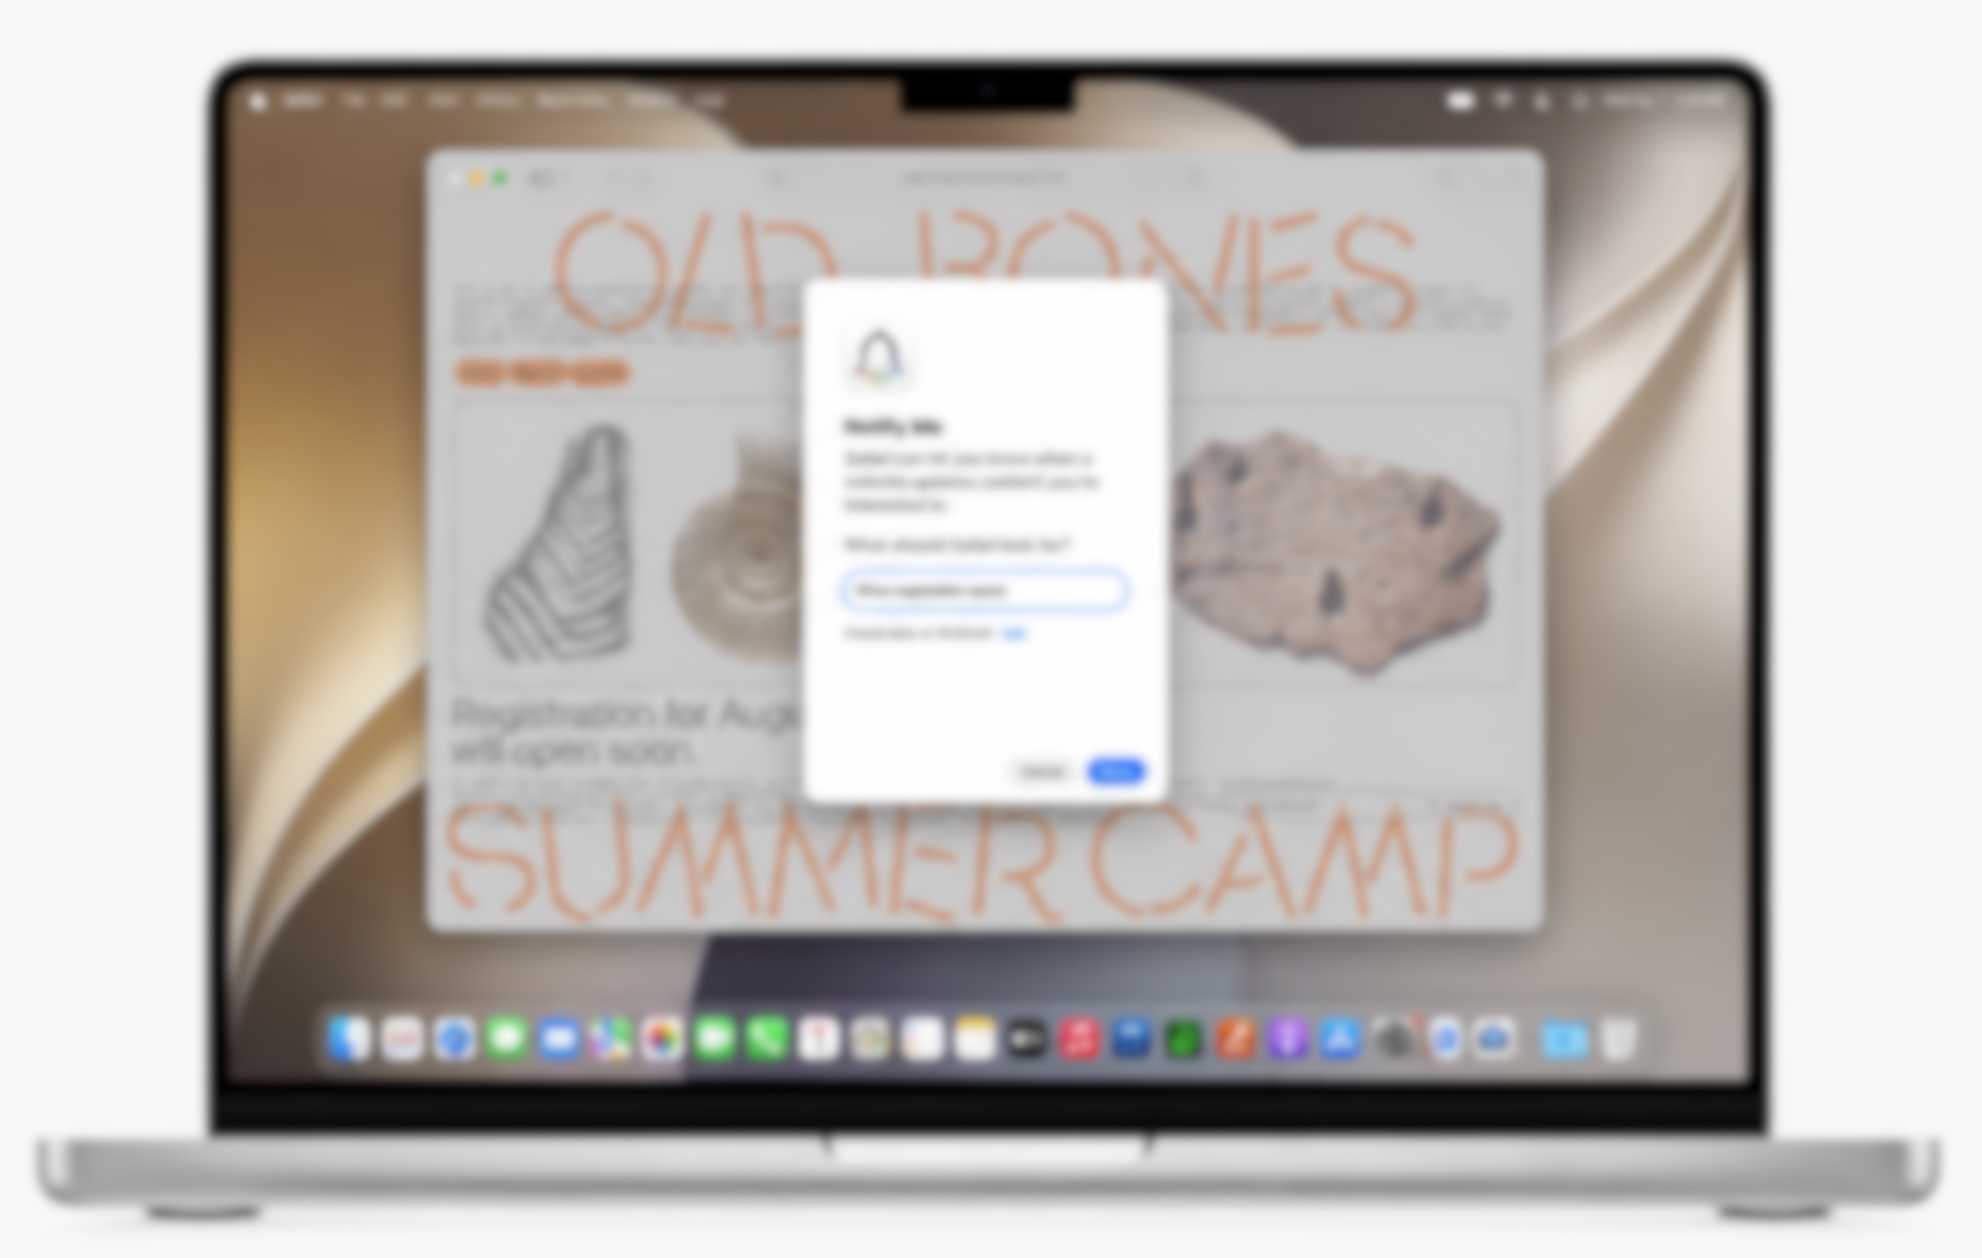
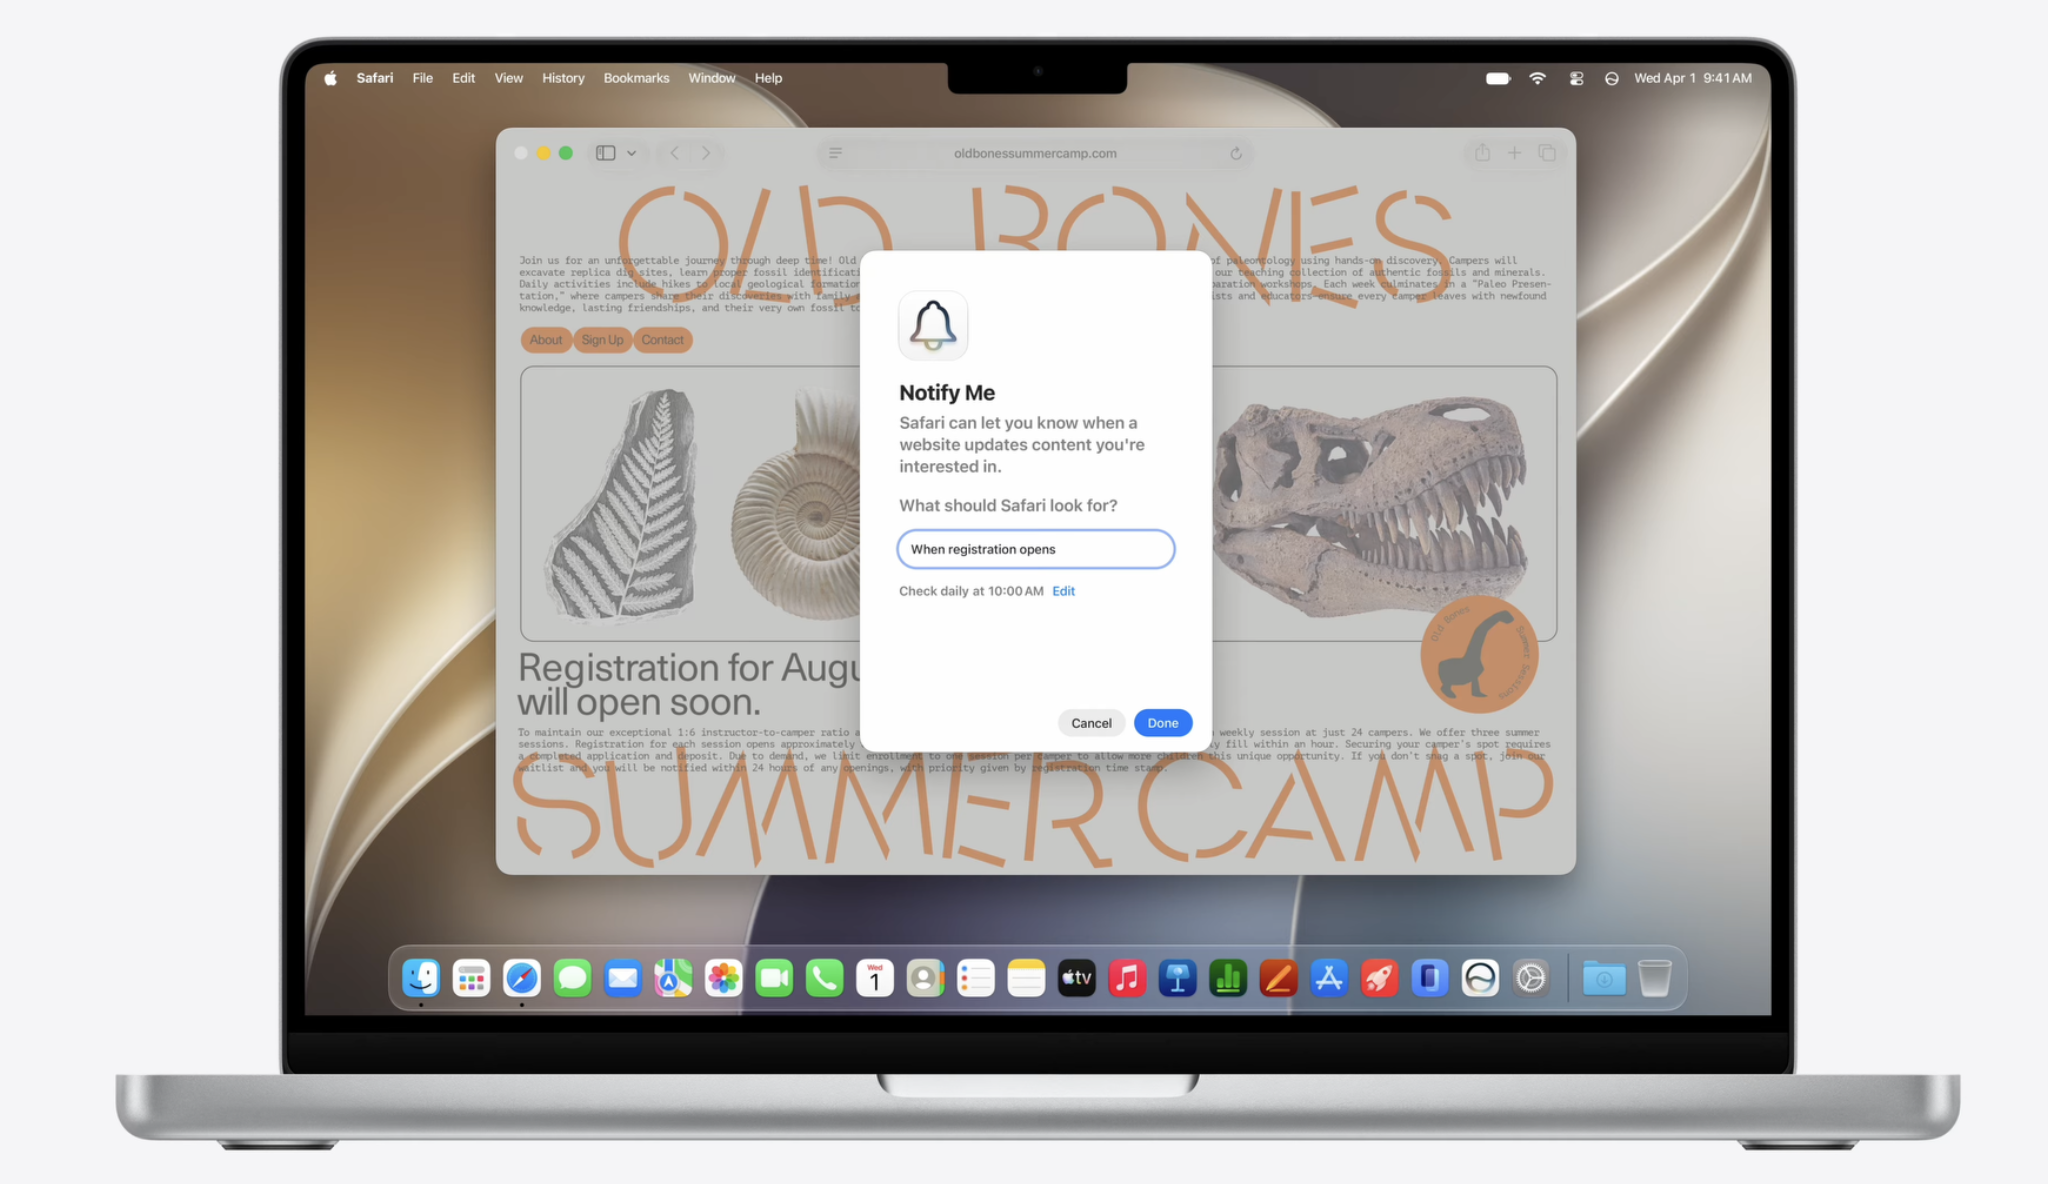
briefing: hi-res Apple press shot + Battersea VP panel on local demo

diff --git a/index.html b/index.html
@@ -224,8 +224,8 @@
         </div>
       </div>
       <div style="display: flex; flex-direction: column;">
-        <div style="height: 540px; border-radius: 16px; overflow: hidden; border: 1px solid var(--rule); box-shadow: var(--shadow-card); background: var(--vp-gray-200);">
-          <img src="assets/apple-notify-me-macbook.png" alt="Safari Notify Me dialog on a MacBook, on a page that says registration for August will open soon" style="width: 100%; height: 100%; object-fit: cover; object-position: center top; display: block;">
+        <div style="height: 540px; border-radius: 16px; overflow: hidden; border: 1px solid var(--rule); box-shadow: var(--shadow-card); background: #fff;">
+          <img src="assets/apple-notify-me-macbook.png" alt="Safari Notify Me dialog on a MacBook, on a page that says registration for August will open soon" style="width: 100%; height: 100%; object-fit: contain; display: block;">
         </div>
         <div style="font-size: 15px; color: var(--ink-4); margin-top: 12px;">Image: Apple / WWDC 2026</div>
       </div>
@@ -1062,7 +1062,7 @@
       <div style="display: flex; flex-direction: column;">
         <div style="font-size: 16px; letter-spacing: 0.12em; text-transform: uppercase; color: var(--ink-4); font-weight: 700; margin-bottom: 18px;">1. Safari &middot; Notify Me, this fall</div>
         <div style="flex: 1; background: #fff; border-radius: 16px; box-shadow: var(--shadow-3xl); padding: 22px; display: flex; align-items: center; justify-content: center; overflow: hidden;">
-          <img src="assets/apple-notify-me-macbook.png" alt="Safari Notify Me dialog on a MacBook" style="width: 100%; height: 100%; object-fit: cover; object-position: center top; display: block;">
+          <img src="assets/apple-notify-me-macbook.png" alt="Safari Notify Me dialog on a MacBook" style="width: 100%; height: 100%; object-fit: contain; display: block;">
         </div>
         <div style="margin-top: 16px; font-size: 18px; color: var(--ink-3); line-height: 1.45;">
           Name the change while you are on the page. Safari checks it and sends a push when it happens.
@@ -1071,10 +1071,10 @@
       <div style="display: flex; flex-direction: column;">
         <div style="font-size: 16px; letter-spacing: 0.12em; text-transform: uppercase; color: var(--ink-4); font-weight: 700; margin-bottom: 18px;">2. Visualping extension &middot; in Chrome today</div>
         <div style="flex: 1; background: #fff; border-radius: 16px; box-shadow: var(--shadow-3xl); padding: 22px; display: flex; align-items: center; justify-content: center; overflow: hidden;">
-          <img src="assets/vp-extension-local.png" alt="Visualping browser extension setting up a local monitor on a product page (preview UI)" style="width: 100%; height: 100%; object-fit: cover; object-position: center top; display: block;">
+          <img src="assets/vp-local-battersea.png" alt="Visualping alert panel on the Battersea dog adoption page: name the change in plain language, with AI suggestions" style="width: 100%; height: 100%; object-fit: contain; display: block;">
         </div>
         <div style="margin-top: 16px; font-size: 18px; color: var(--ink-3); line-height: 1.45;">
-          Unlimited local monitors, free, with in-browser alerts. Same pattern, scoped to the device: pick the page, name the change, get pinged. <span style="color: var(--ink-4);">(Preview UI shown.)</span>
+          Unlimited local monitors in Chrome, free, with in-browser alerts. Name the change in plain language; Visualping AI suggests what to watch for. <span style="color: var(--ink-4);">(Preview UI.)</span>
         </div>
       </div>
     </div>
